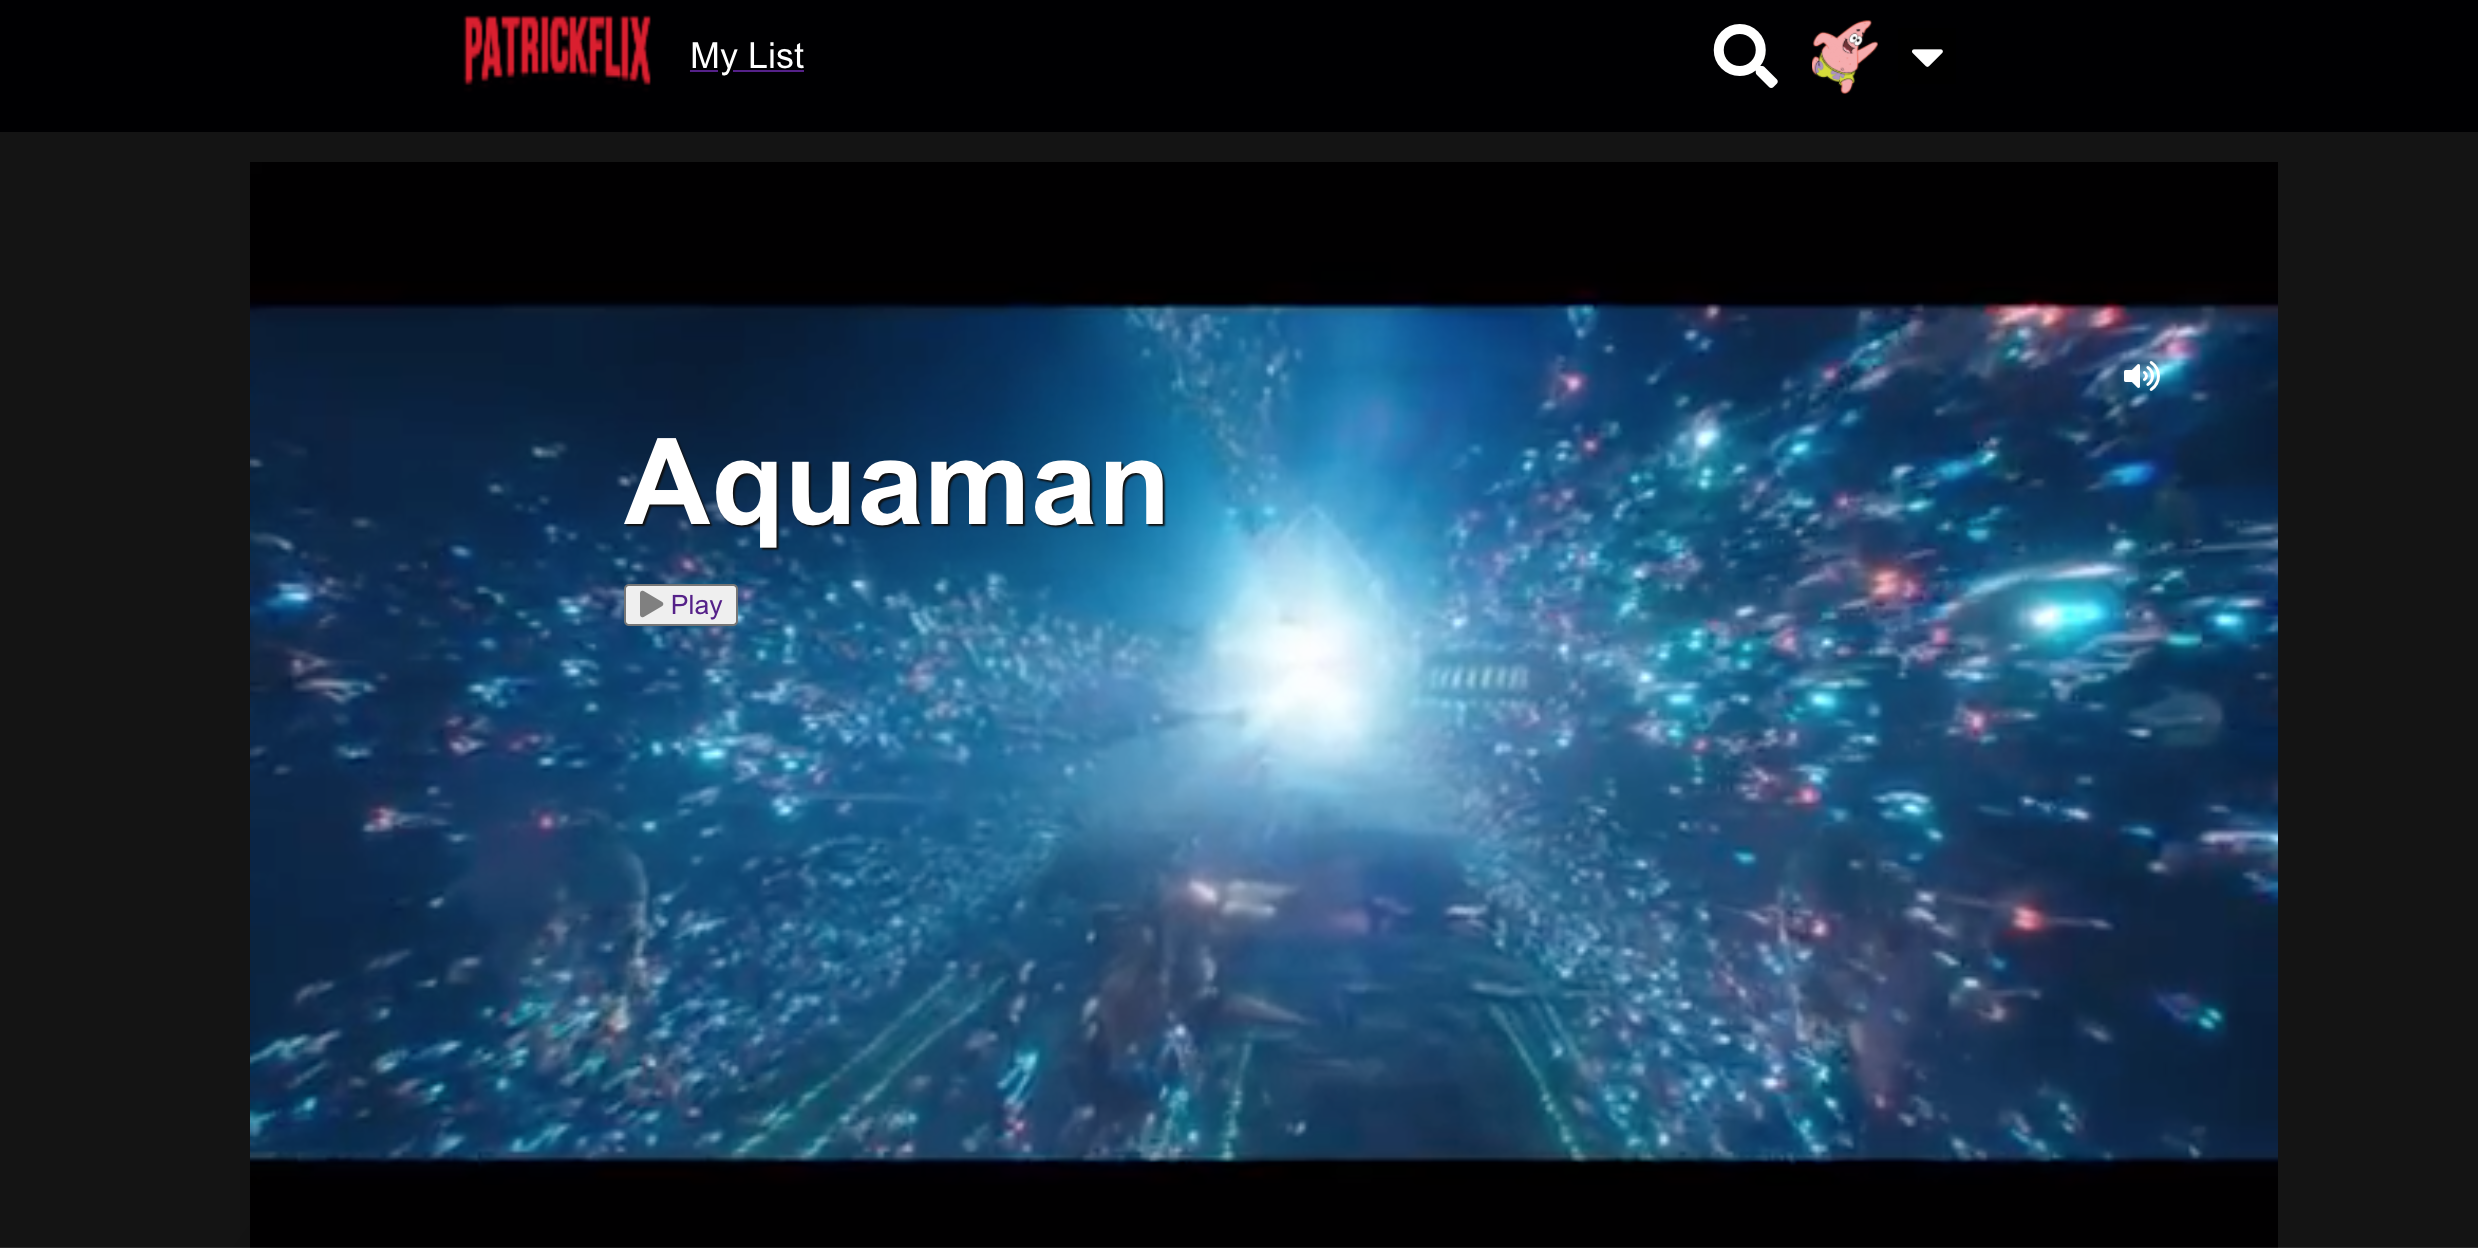
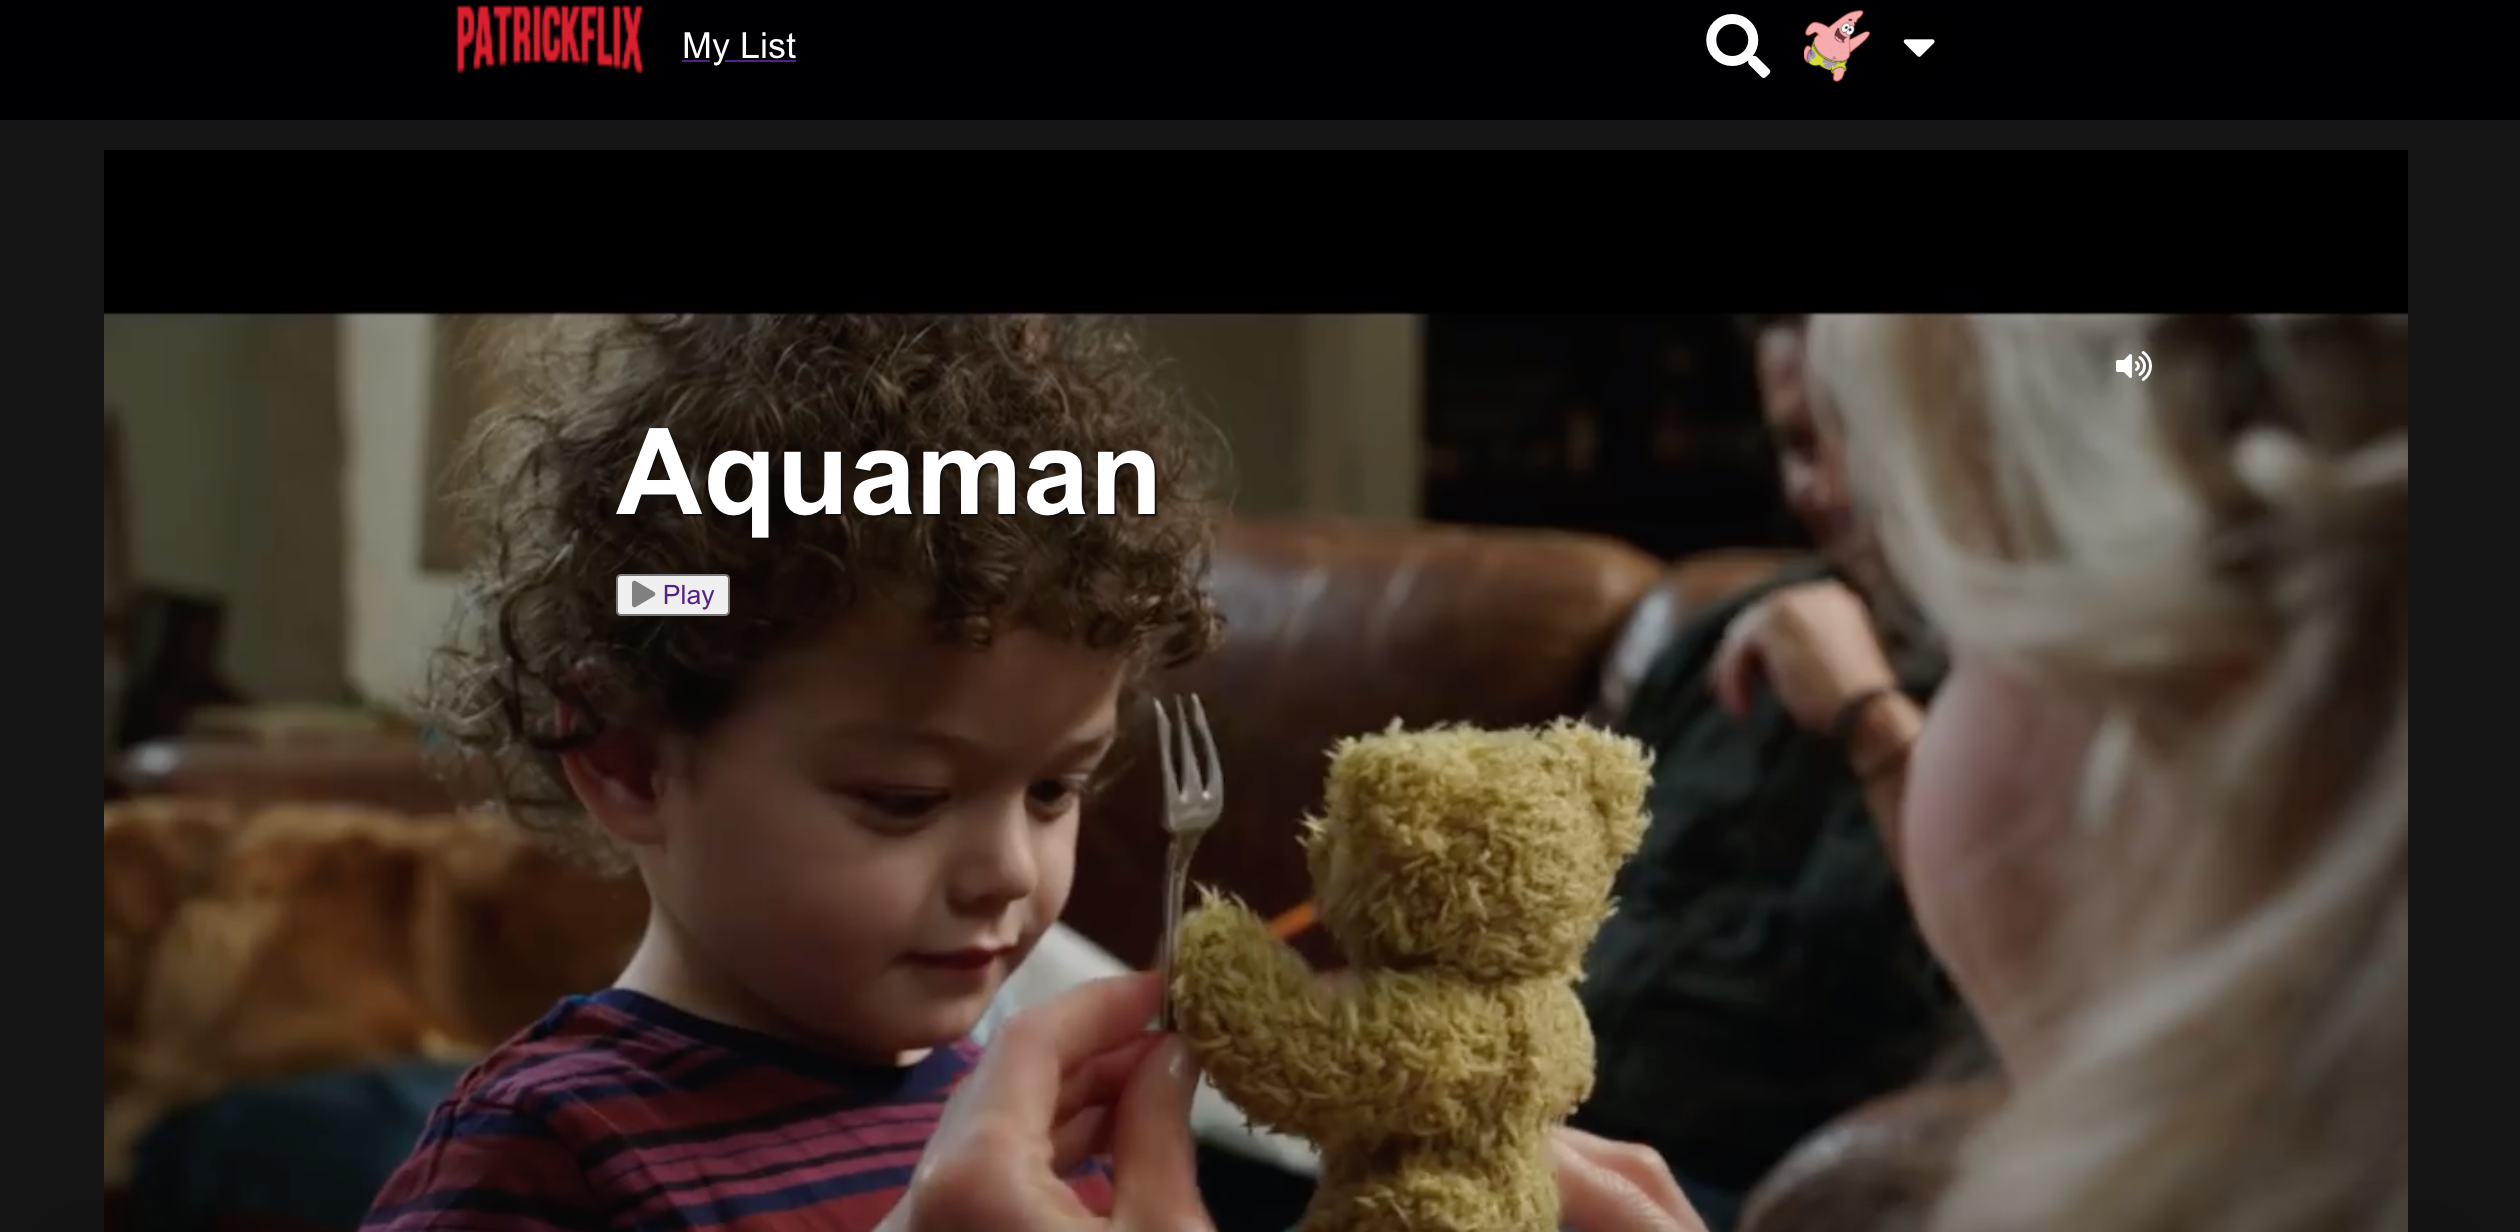
fade hidden row photo

diff --git a/app/assets/stylesheets/videos.scss b/app/assets/stylesheets/videos.scss
@@ -725,9 +725,13 @@ h1, h2, h3, h4, h5, h6, a, div {
     top: 0;
     left: 40%;
     background-size: 100% 100%;
-    // background: -webkit-gradient(linear,left top, right top,from(#000),to(transparent));
-    // background: -o-linear-gradient(left,#000,transparent);
-    // background: linear-gradient(to left,#000,transparent);
+    background-blend-mode: overlay;
+    background-size: 100% 100%;
+
+    background: -webkit-gradient(linear,left top, right top,from(#000),to(transparent));
+    background: -o-linear-gradient(left,#000,transparent);
+    background: linear-gradient(to left,#000,transparent);
+
 }
 
 .loader {
@@ -747,16 +751,18 @@ h1, h2, h3, h4, h5, h6, a, div {
     100% { transform: rotate(360deg); }
   }
 
-.detail-row-show img{
-    width: 65%;
-    height: 350px;
-    margin-left: 40%;
-    background: -webkit-gradient(linear,left top, right top,from(#000),to(transparent));
-    background: -o-linear-gradient(left,#000,transparent);
-    background: linear-gradient(to right,#000,transparent);
+// .detail-row-show .left-div-hidden{
+//     width: 65%;
+//     height: 350px;
+    // lef
+    // background: -webkit-gradient(linear,left top, right top,from(#000),to(transparent));
+    // background: -o-linear-gradient(left,#000,transparent);
+    // background: linear-gradient(to right,#000,transparent);
+    // background-size: cover;
+
     // position: relative;
     // padding: 30px;
-}
+// }
 
 
 

diff --git a/frontend/components/list/listForm.jsx b/frontend/components/list/listForm.jsx
@@ -145,11 +145,7 @@ class ListForm extends React.Component {
             </div>
             
         })
-        if(Object.values(this.props.lists).length){
-            list_heigth_id = 'list-body'
-        } else {
-            list_heigth_id = 'list-empty'
-        }
+        
         
 
         let search_arr
@@ -216,7 +212,7 @@ class ListForm extends React.Component {
                         </div>
                     </div>
                 </div>
-                <div id={list_heigth_id}>
+                <div id='list-body'>
                     <h1 className="list-h1">My List</h1>
                     {lists}
                 </div>

diff --git a/frontend/components/videos/hiddenRowform.jsx b/frontend/components/videos/hiddenRowform.jsx
@@ -28,7 +28,8 @@ class DetailRowForm extends React.Component {
                     {/* <img src={vid.image_link} alt="movie poster"/> */}
                 {/* </div> */}
                 
-                <div className='left-div-hidden' style={{ 'backgroundImage': `url(${vid.image_link})`}}></div>
+                <div className='left-div-hidden' style={{ 'backgroundImage': `url(${vid.image_link}), linear-gradient(to right,#000,transparent)`,
+            'backgroundSize': '100% 100%'}}></div>
             </div>
             
                 

diff --git a/app/assets/stylesheets/list.scss b/app/assets/stylesheets/list.scss
@@ -45,7 +45,7 @@
     padding-left: 20px;
     padding-top: 25px;
     height: auto;
-    min-height: 100%;
+    min-height: 100vh;
    
 }
 
